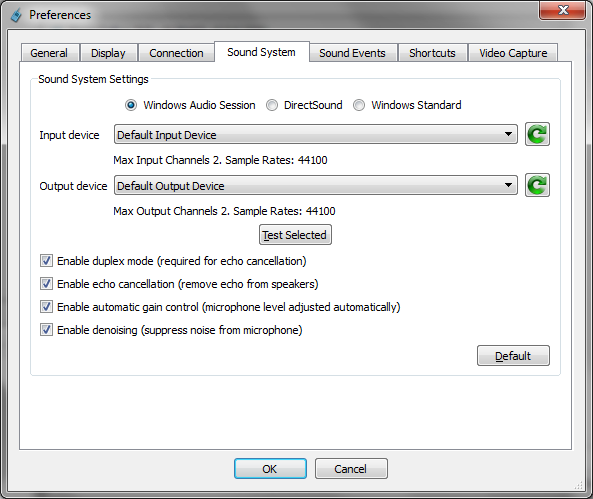
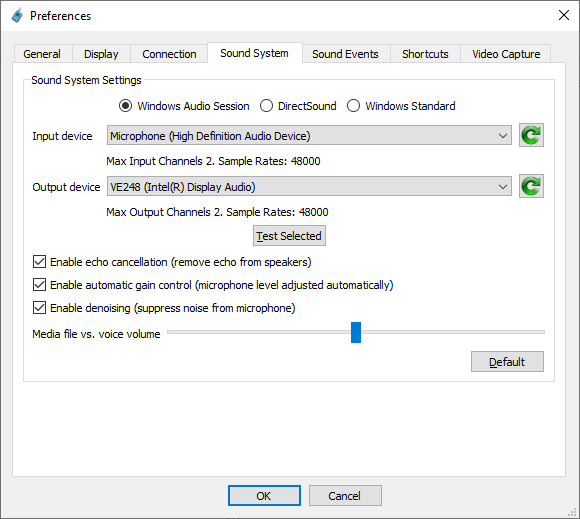
Docs regarding optimal echo cancellation

Changed region(s): [[0.0, 0.0, 1.0, 1.0]]

diff --git a/Documentation/TeamTalk/preferences.md b/Documentation/TeamTalk/preferences.md
@@ -227,32 +227,19 @@ The items in the Sound System-tab are explained here:
 
 - **Windows Audio Session**
   - The preferred sound system on Windows.
-  - Echo cancellation, denoising and automatic gain control is
-    performed using Windows' built in functions.
-  - When enabling echo cancellation, denoising or automatic gain
-    control (AGC) the sound system automatically switches to mono at
-    22 KHz.
 
 - **DirectSound**
   - Provides best compatibility with sound devices.
-  - Echo cancellation, denoising and automatic gain control is
-    performed using Speex's audio processing.
 
 - **Windows Standard**
   - Windows default sound system. This typically is slower than
     DirectSound and Windows Audio Session.
-  - Echo cancellation, denoising and automatic gain control is
-    performed using Speex's audio processing.
   
 - **ALSA**
   - This sound system is only available on Linux.
-  - Echo cancellation, denoising and automatic gain control is
-    performed using Speex's audio processing.
 
 - **Core Audio**
   - This sound system is only available on Mac OS X.
-  - Echo cancellation, denoising and automatic gain control is
-    performed using Speex's audio processing.
 
 - **Input Device**
   - The sound device to use for recording audio. It is advised to use
@@ -267,20 +254,14 @@ The items in the Sound System-tab are explained here:
 - **Test Selected**
   - Use this to test the selected sound devices.
 
-- **Enable duplex mode (required for echo cancellation)**
-  - When this option is enabled all received audio is merged into a
-    single stream and played. Sound cards which cannot option multiple
-    streams can use this option and if you intend to use echo
-    cancellation this option is a requirement.
-
 - **Enable echo cancellation (remove echo from speakers)**
   - If you're using speakers instead of headphones when other users
     may be hearing themselves due to echo from speakers. Enabling this
-    option will remove the echo from speakers. It, however, requires a
-    lot of system resources and is therefore not enabled by
-    default. For best echo cancellation it's also advised to enable
-    the [Audio Configuration](@ref createchandlg) option when creating
-    channels.
+    option will remove the echo from speakers.
+  - Echo cancellation affects audio quality and is therefore not
+    enabled by default.
+  - For optimal configuration of echo cancellation please refer to
+    section [Optimal Echo Cancellation](@ref optimalechocancel)
 
 - **Enable automatic gain control (microphone level adjusted
   automatically)**
@@ -298,6 +279,38 @@ The items in the Sound System-tab are explained here:
 
 - **Default**
   - This button resets all sound system items to their default values.
+
+## Optimal Echo Cancellation {#optimalechocancel}
+
+Echo cancellation performs best if the selected sound input device and
+sound output device use the sample rate (typically 48000 Hz).
+
+On Windows 10 the default sample rate of sound devices can be
+configured in *Settings* (formerly Control Panel). *Sound* settings
+are found in *System* category. Here press *Sound Control Panel* in
+*Related Settings* and the following dialog will open:
+
+![Sound Control Panel on Windows 10](pref_soundctrl.png "Sound Control Panel")
+
+Click *Properties* on the selected sound output device, in
+*Playback*-tab, and select a sample rate that is also supported by the
+sound input device. The sample rates is located under *Advanced*-tab
+(see screenshot below). The sound input device is located in
+*Recording*-tab and also configurable using *Properties* button. The
+recommended setting is 2 channel (stereo), 16-bit at 48000 Hz.
+
+Below is shown "Headphones" playback device using the recommended
+settings:
+
+![Properties for a playback device on Windows 10](pref_wasapi.png "Sound Control Panel")
+
+If it is not possible to set up the same sample rate on sound input
+and output device then TeamTalk will try to use Windows' built-in echo
+canceller which is suboptimal. The Windows echo canceller converts
+recorded audio to mono at 22050 Hz.
+
+For best echo cancellation it is also advised to enable the
+[Audio Configuration](@ref createchandlg) option when creating channels.
 
 # Sound Events {#soundeventstab}
 
